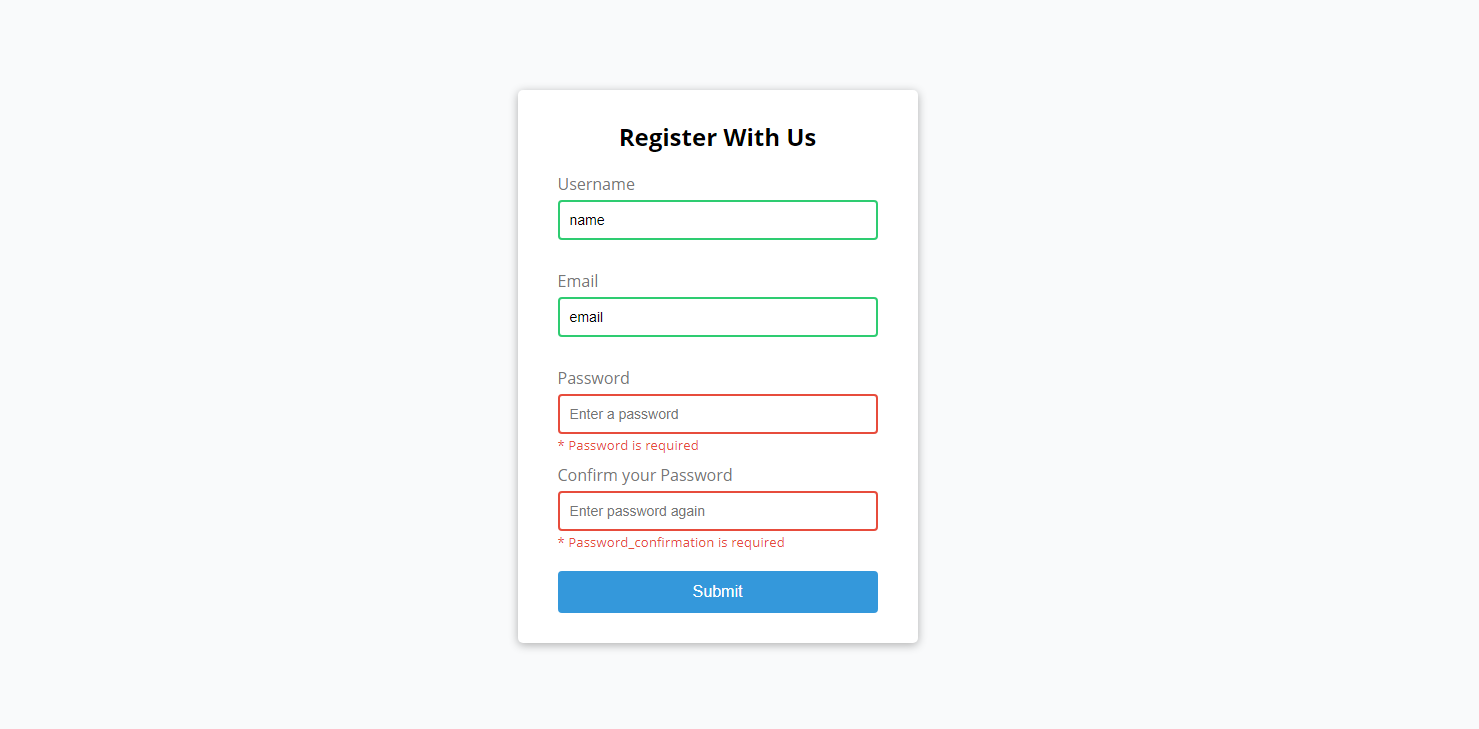
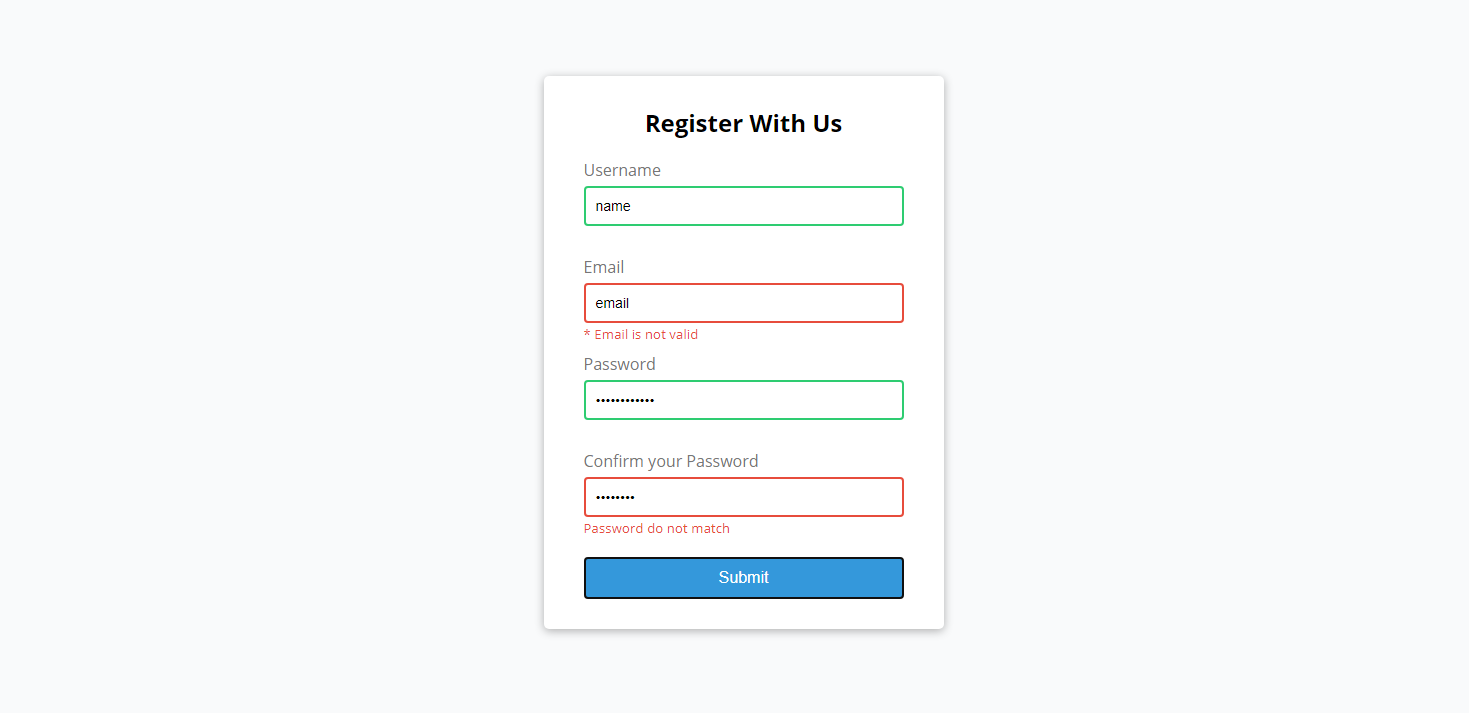
Fix(script.js) - Fix error message:vertical resize +5.

Changed region(s): [[0.3676, 0.3703, 0.6433, 0.8948], [0.3676, 0.1543, 0.6433, 0.3394], [0.337, 0.864, 0.3676, 0.8948]]

diff --git a/script.js b/script.js
@@ -59,7 +59,7 @@ function checkLength(input, min, max) {
 // Check passwords matche
 function checkPasswordsMatch(input1, input2) {
   if (input1.value !== input2.value) {
-    showError(input2, "Password do not match");
+    showError(input2, "* Password do not match");
   }
 }
 
